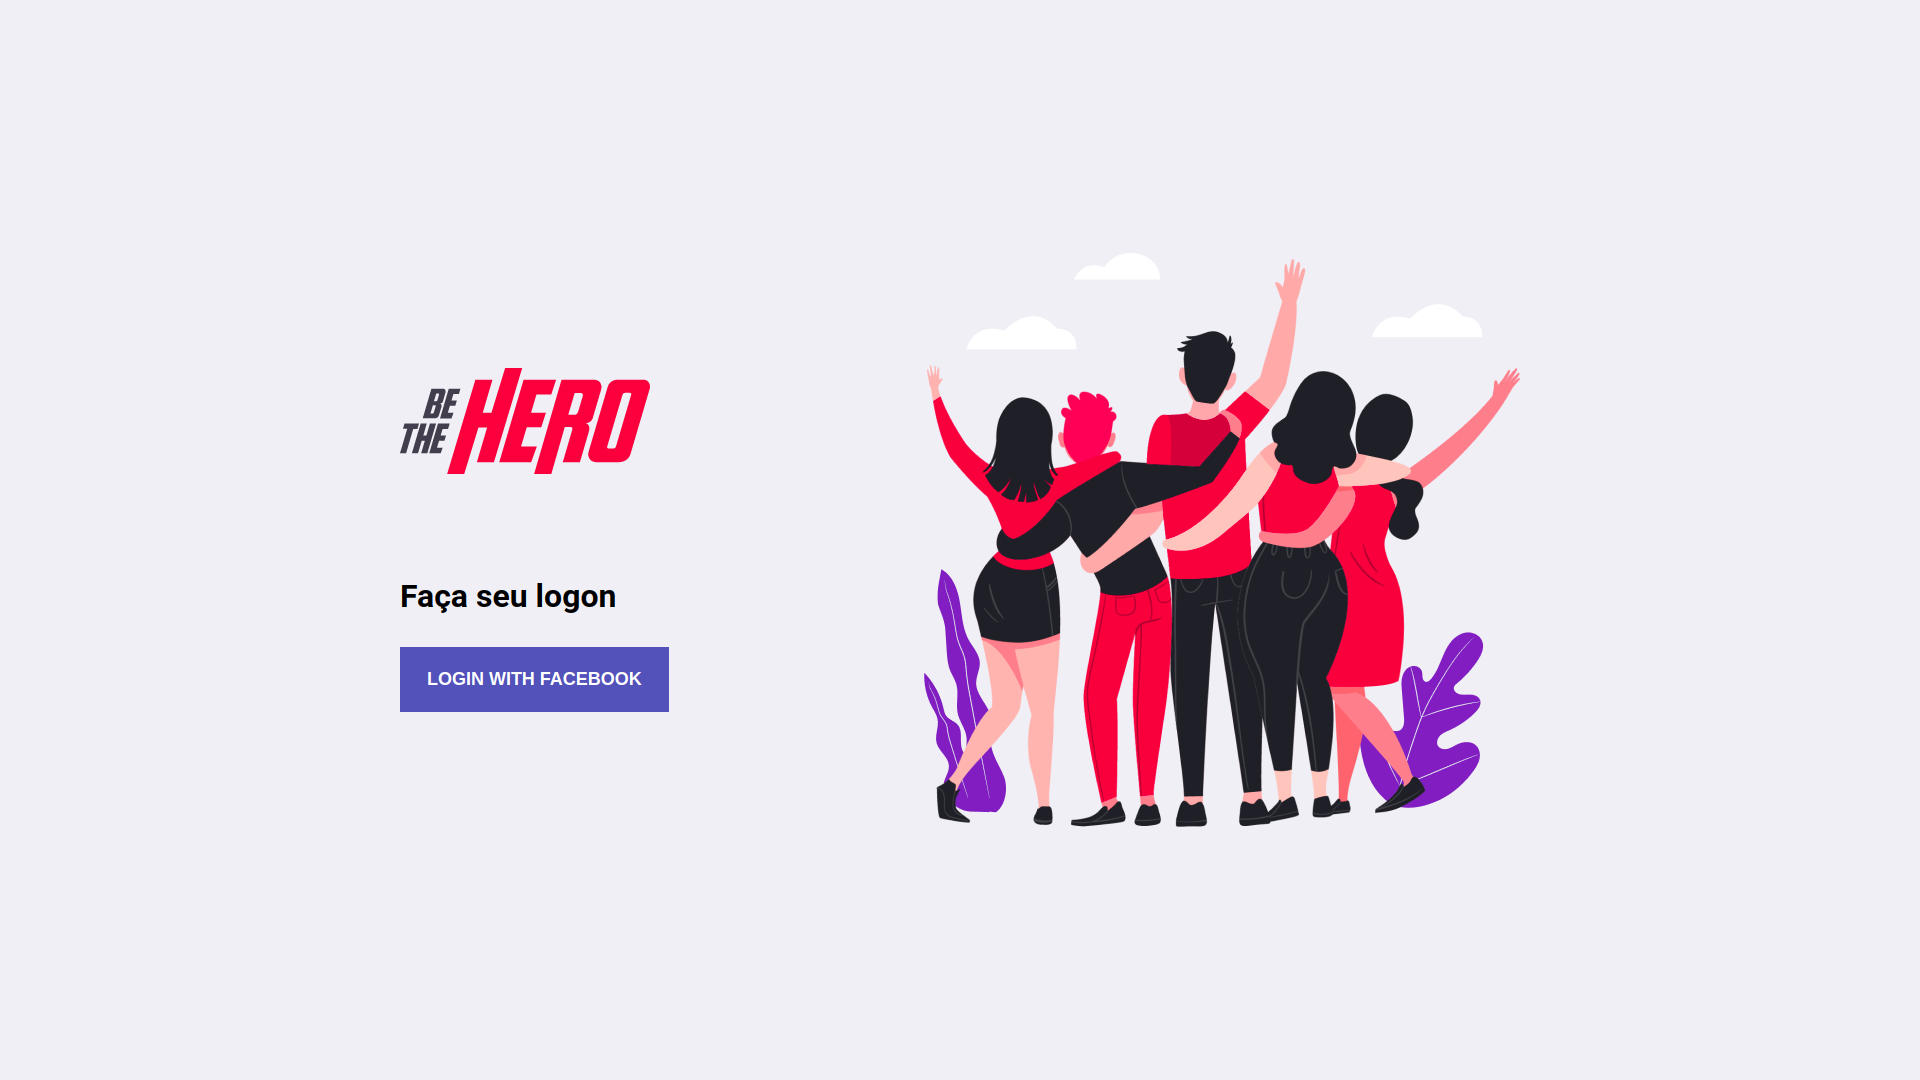
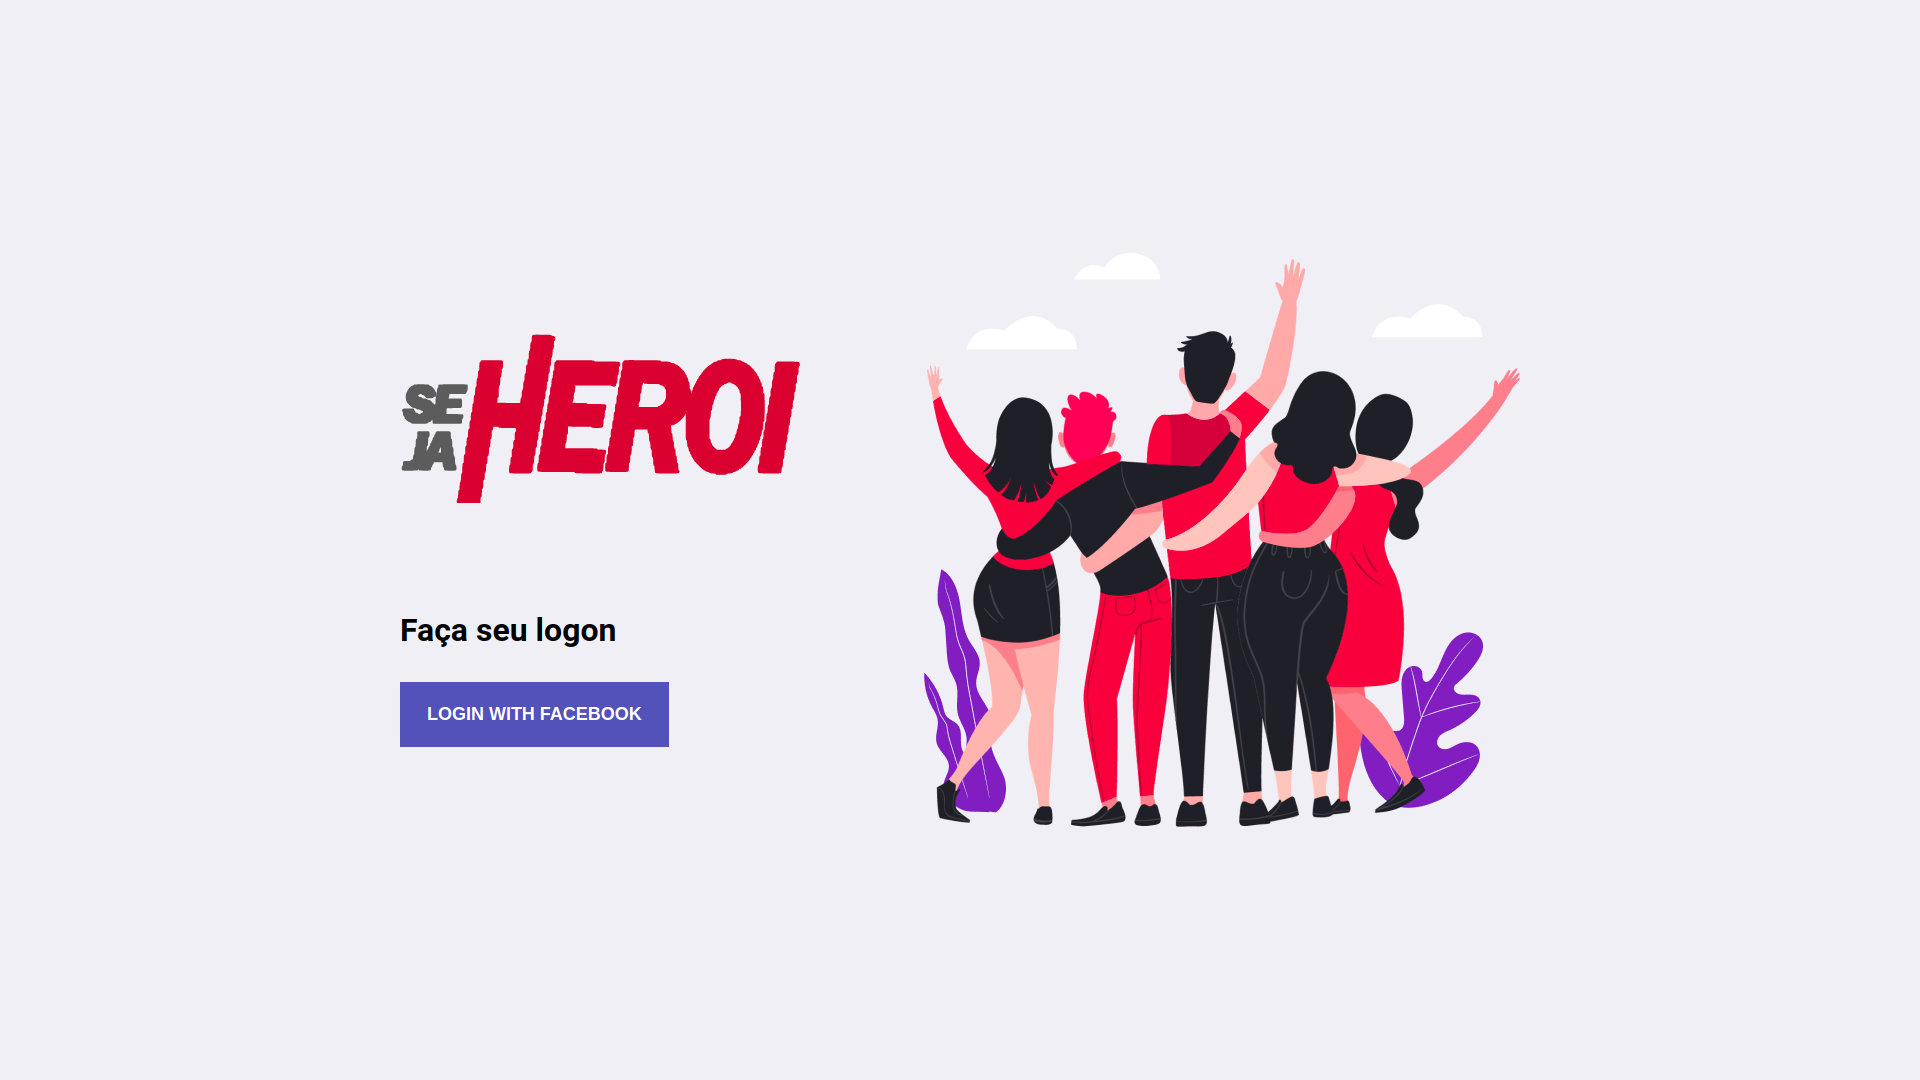
update readme e imagens

Changed region(s): [[0.1875, 0.3056, 0.4375, 0.4583], [0.1875, 0.55, 0.3438, 0.7028]]

diff --git a/README.md b/README.md
@@ -12,7 +12,9 @@
 <br>
 
 ### :rocket: Tecnologias usadas
+
 Este maravilindo projeto foi desenvolvido com as seguintes tecnologias:
+
 - [Node.js](https://nodejs.org/en/)
 - [Expo](https://expo.io/)
 - [Express](https://expressjs.com/pt-br/)
@@ -25,31 +27,34 @@ Este maravilindo projeto foi desenvolvido com as seguintes tecnologias:
 
 ### :muscle: Projeto
 
-<b>Be the Hero</b> originalmente é um projeto que visa ajudar, de maneira <b>financeira</b> uma instituição de caridade, ajudando a mesma se manter. 
+<b>Be the Hero</b> originalmente é um projeto que visa ajudar, de maneira <b>financeira</b> uma instituição de caridade, ajudando a mesma se manter.
 **No entando, essa adaptação é destinada a ajudar no combate a pandemia do COVID-19.**
 
 ### 🦸♂ Como Funciona? <br>
+
 Segundo as recomendações da [OMS](https://www.who.int/eportuguese/countries/bra/pt/) as pessoas devem se manter em isolamento social e evitar ao máximo sair de suas casas. As pessoas idosas principalmente, pois estão no grupo considerado de maior risco, devem recorrer a outras pessoas para, por exemplo, ir ao supermercado.
 
 Esse projeto disponibiliza uma versão “web” onde as pessoas podem cadastrar as suas necessidades e uma versão mobile onde outras pessoas podem ter acesso aos casos cadastrados e escolher um ou mais casos para ajudar.
 
 ##### Versão WEB: https://sejaheroi.netlify.app/
+
 screenshots
+
 <p align="center">
     <img alt="login" src="./img/login.png" width="250px">
     <img alt="profile" src="./img/Profile.png" width="250px">
     <img alt="newIncident" src="./img/newIncident.png" width="250px">
 </p>
 
-
 ##### Versão MOBILE: https://exp.host/@barbosamaatheus/bethehero
+
 screenshots
+
 <p align="center">
     <img alt="splash" src="./img/splash.png" height="500px">
-    <img alt="incidents" src="./img/incidents.jpeg" height="500px">
-    <img alt="detail" src="./img/detail.jpeg" height="500px">
+    <img alt="incidents" src="./img/incidents.png" height="500px">
+    <img alt="detail" src="./img/detail.png" height="500px">
 </p>
-
 
 ### :recycle: Como contribuir
 
